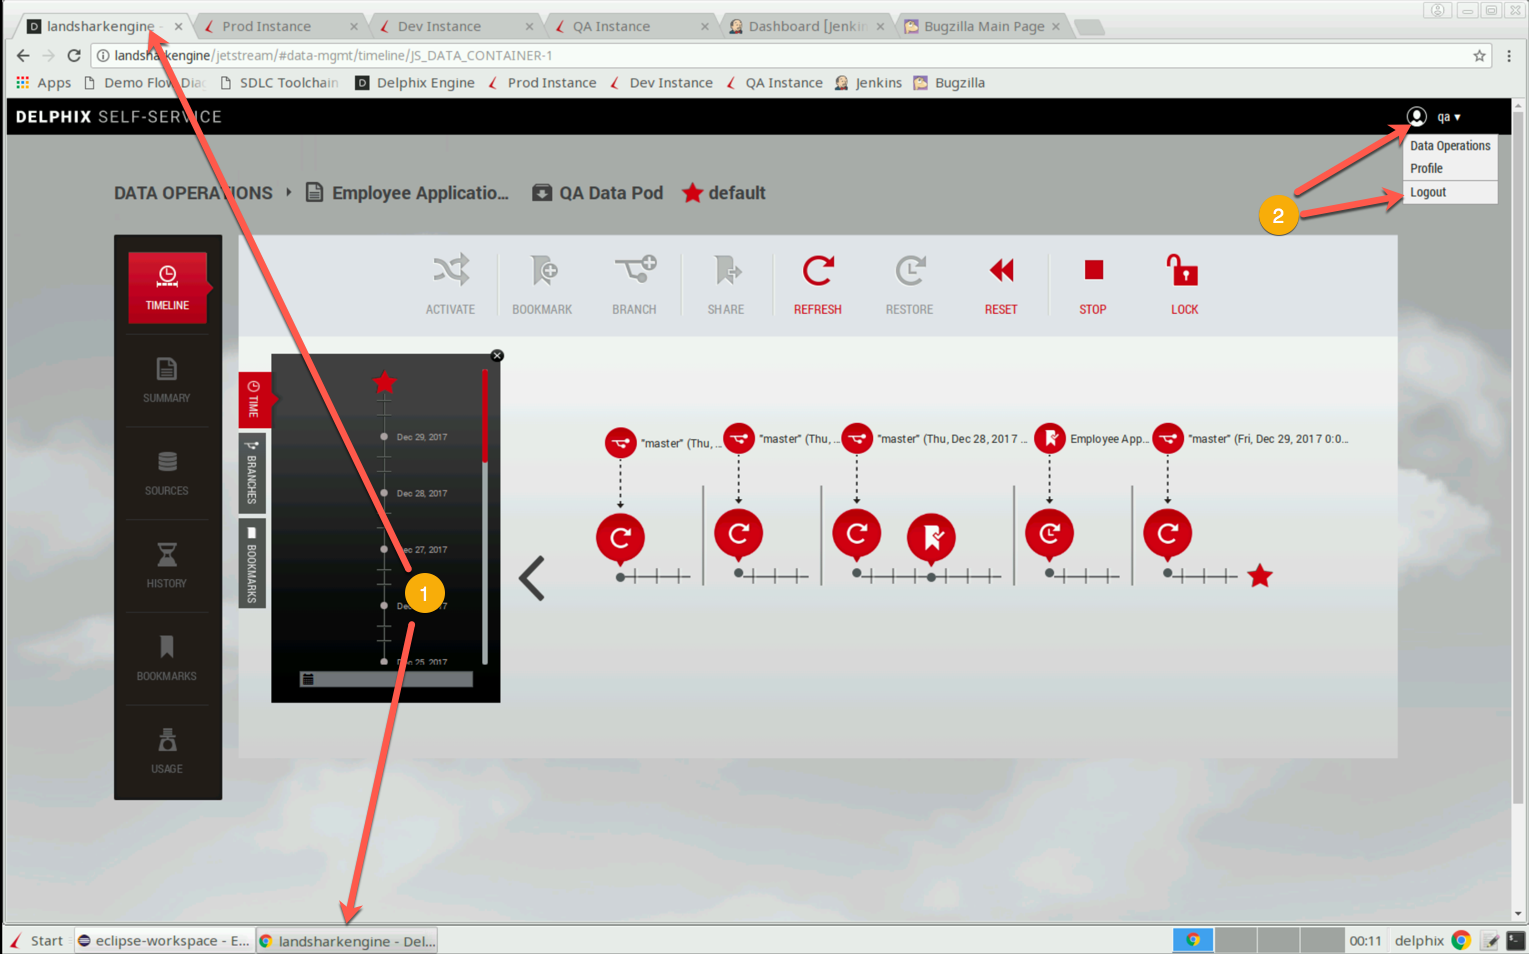
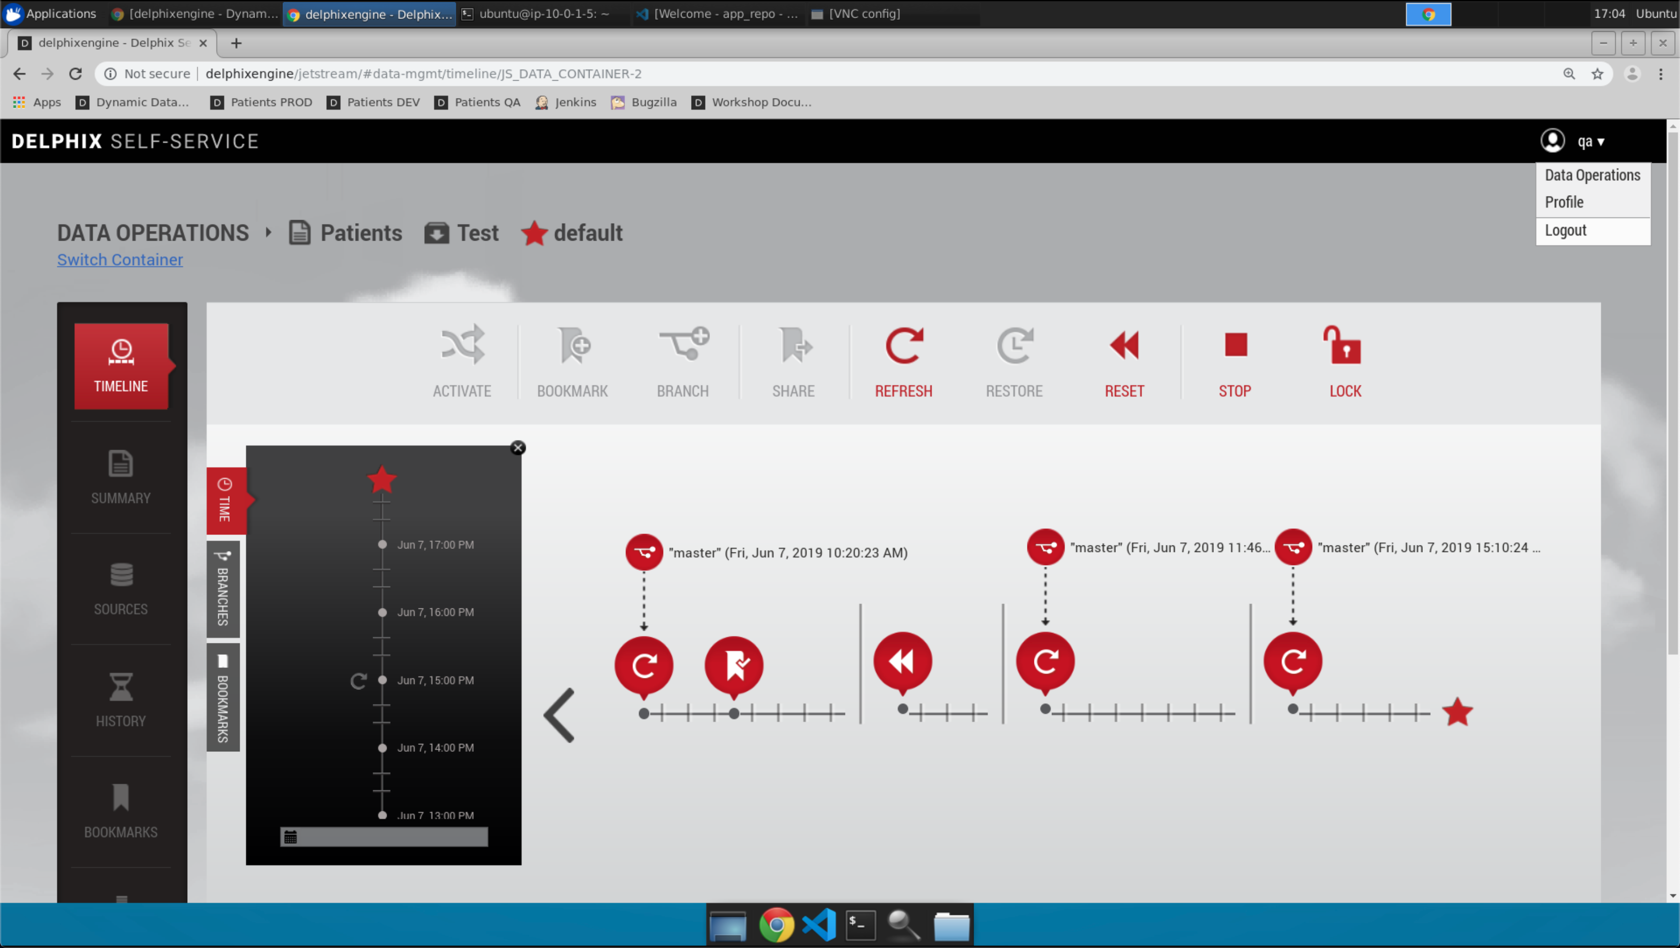
changes

diff --git a/pages/tcw/actii/tcw_actii_6.md b/pages/tcw/actii/tcw_actii_6.md
@@ -10,11 +10,20 @@ folder: tcw
 toc: false
 ---
 
-If you develop applications for a living, you will be the author of many bugs over the course of your career. One of the challenges of fixing bugs is the ability to reproduce the issue. The easiest way to do this is to see the bug in its failed state. But, when bugs are found upstream, that usually means tying up environments until the developer can “come to your desk” and take a look at the environment to triage the issue.
+If you develop applications for a living, you will be the author of many bugs over the course of your career.
+One of the challenges of fixing bugs is the ability to reproduce the issue. The easiest way to do this is to 
+see the bug in its failed state. But, when bugs are found upstream, that usually means tying up environments 
+until the developer can “come to your desk” and take a look at the environment to triage the issue.
 
-The Delphix DDP allows you save and share data state between [data pods](https://www.delphix.com/platform/data-pod){:target="_blank"}.. This allows us to treat data as code: cloning and branching as needed. When you can get the exact state of data you need , on demand, your environments and operations are no longer held hostage by data.
+The Delphix DDP allows you save and share data state between
+[data pods](https://www.delphix.com/platform/data-pod){:target="_blank"}.
+This allows us to treat data as code: cloning and branching as needed. When you can get the exact state of
+data you need , on demand, your environments and operations are no longer held hostage by data.
 
-In Act I, we saved the data state of the failed test in our QA data pod. In this scene, we are going to “pause” the current data in our dev data pod, and replace it with the data from the QA bookmark we created in Act I.
+In the last scene, we saved the data state of the failed test in our `Test` data pod. Though we realize this situation
+would be simple to recreate manually, in this scene we are going to “pause” the current 
+data in our `Develop` data pod, and replace it with the data from the bug bookmark that was
+automatically created in the last scene.
 
 ### YOUR STEPS FOR THIS SCENE:
 
@@ -25,25 +34,32 @@ In Act I, we saved the data state of the failed test in our QA data pod. In this
    {% include custom/image_popout.html file="actii/bugs_happen_2.png" %}
 4. If this is your first login, you will be prompted to change the password. Set the password to delphix
    {% include custom/image_popout.html file="actii/bugs_happen_3.png" %}
-5. You should now be in the Data Operations screen. Click on Dev Data Pod
+5. You should now be in the Data Operations screen. Click on `Develop` data pod
    {% include custom/image_popout.html file="actii/bugs_happen_4.png" %}
-6. You should now see the timeline for Dev Data Pod. Click on the Bookmarks button.
+6. You should now see the timeline for `Develop` data pod. Click on the Bookmarks button.
    {% include custom/image_popout.html file="actii/bugs_happen_5.png" %}
-7. Your bookmarks section will be empty, because the dev user has not created any bookmarks yet for their data pod. Click Available.
-   {% include custom/image_popout.html file="actii/bugs_happen_6.png" %}
+7. By default, you'll only see the bookmark that was automatically generated when our initial build failed (column name).
+Click Available.
 8. You should now see bookmarks that have been shared with you from other data pods.
+   {% include custom/image_popout.html file="actii/bugs_happen_6.png" %}
+9. Bookmarks are searchable. Search for the bookmark that corresponds to your bug or test from Act I. In the example below, my bug is Bug 3.
    {% include custom/image_popout.html file="actii/bugs_happen_7.png" %}
-9. Bookmarks are searchable. Search for the bookmark that corresponds to your bug or test from Act I. In the example below, my bug is Bug 2.
-   {% include custom/image_popout.html file="actii/bugs_happen_8.png" %}
 10. Click the boomark.
-11. Click the branch icon
-12. Name the branch after your bug, all lowercase and no spaces. This allows it to be compatible with git branch names. ex. `bug-2`
+11. Click the branch icon (purple box, below)
+12. Name the branch after your bug, ex. `bug 3`
 13. Click Create.
-    {% include custom/image_popout.html file="actii/bugs_happen_9.png" %}
+    {% include custom/image_popout.html file="actii/bugs_happen_8.png" %}
 14. Click Timeline.
 15. You will now see the Creating Branch progress bar. After completion, proceed to the next step.
-    {% include custom/image_popout.html file="actii/bugs_happen_10.png" %}
+    {% include custom/image_popout.html file="actii/bugs_happen_9.png" %}
 16. When it is complete, you will see the name of your new branch across the top and you will see that the timeline of the data pod starts from the bookmark you had previously selected.
+    {% include custom/image_popout.html file="actii/bugs_happen_10.png" %}
+17. Go back to the bookmark and copy the git hash from the tag to your clipboard
     {% include custom/image_popout.html file="actii/bugs_happen_11.png" %}
+18. Open a terminal window and enter `deploy_dev <git commit hash>`.
+    {% include custom/image_popout.html file="actii/bugs_happen_12.png" %}
+19. Open `Patients Dev` in a new tab. Login, and go to the Users section.
+You should now see we have replicated the "broken test" environment.
+    {% include custom/image_popout.html file="actii/bugs_happen_13.png" %}
 
 {% include links.html %}

diff --git a/pages/tcw/actii/tcw_actii_5.md b/pages/tcw/actii/tcw_actii_5.md
@@ -33,7 +33,7 @@ just to demonstrate the features stated above...
    {% include custom/image_popout.html file="actii/ready_to_test_again_3.png" %}
 7. Once the refresh is complete, we need to redeploy the QA app from a stable state.
 This takes about 60 seconds.
-8. Open a terminal window and type `bounce_qa`
+8. Open a terminal window and type `deploy_qa HEAD~3`
    {% include custom/image_popout.html file="actii/ready_to_test_again_4.png" %}
    {% include custom/image_popout.html file="actii/ready_to_test_again_5.png" %}
 8. Once that is complete, click the `Patients QA` bookmark to refresh the page
